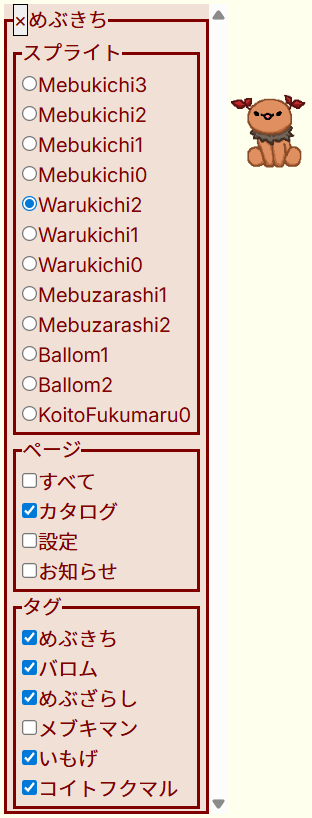
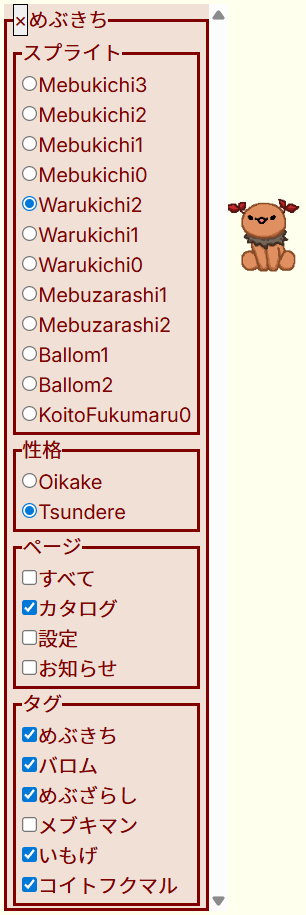
Mebukichi: Sprite and Motion settings are set separately.

Changed region(s): [[0.0, 0.0, 0.7353, 1.0], [0.7353, 0.0917, 0.9706, 0.3056]]

diff --git a/Mebukichi/Mebukichi.user.js b/Mebukichi/Mebukichi.user.js
@@ -1,7 +1,7 @@
 // ==UserScript==
 // @name         Mebuki On The Mebukichi
 // @namespace    https://TakeAsh.net/
-// @version      2026-06-07_17:40
+// @version      2026-06-10_04:00
 // @description  call Mebukichi on Mebuki
 // @author       TakeAsh
 // @match        https://mebuki.moe/app
@@ -23,9 +23,6 @@
     'Mebuzarashi1', 'Mebuzarashi2',
     'Ballom1', 'Ballom2', 'KoitoFukumaru0',
   );
-  const Tsunderes = [
-    'Warukichi2', 'Warukichi1', 'Warukichi0', 'Mebuzarashi2', 'Ballom2',
-  ];
   const Motions = new CyclicEnum(
     'Oikake', 'Tsundere',
   );
@@ -357,15 +354,42 @@
                             events: {
                               change: () => {
                                 Mebukichi.setSprite(settings.Sprite = s);
-                                settings.Motion =
-                                  Tsunderes.includes(String(s)) ? Motions.Tsundere
-                                    : Motions.Oikake;
                               },
                             },
                           },
                           {
                             tag: 'span',
                             textContent: s,
+                          },
+                        ],
+                      };
+                    }),
+                  },
+                ],
+              },
+              {
+                tag: 'fieldset',
+                children: [
+                  {
+                    tag: 'legend',
+                    textContent: '性格',
+                  },
+                  {
+                    tag: 'div',
+                    children: Motions.map(m => {
+                      return {
+                        tag: 'label',
+                        children: [
+                          {
+                            tag: 'input',
+                            type: 'radio',
+                            name: 'Motion',
+                            checked: settings.Motion == m,
+                            events: { change: () => { settings.Motion = m; }, },
+                          },
+                          {
+                            tag: 'span',
+                            textContent: m,
                           },
                         ],
                       };
